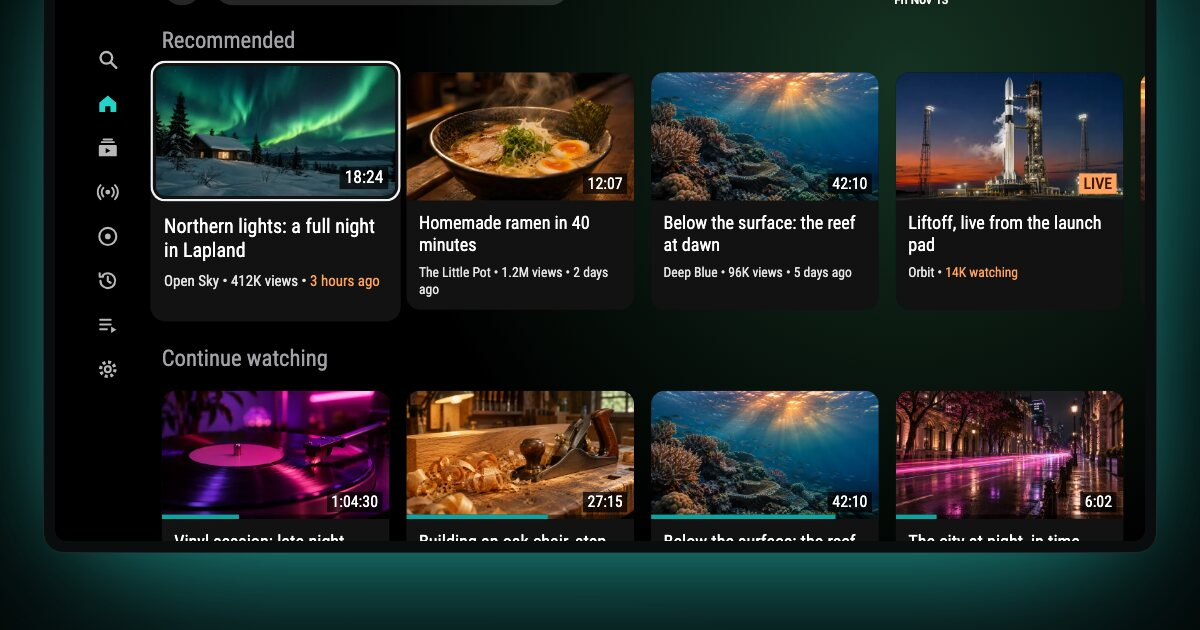
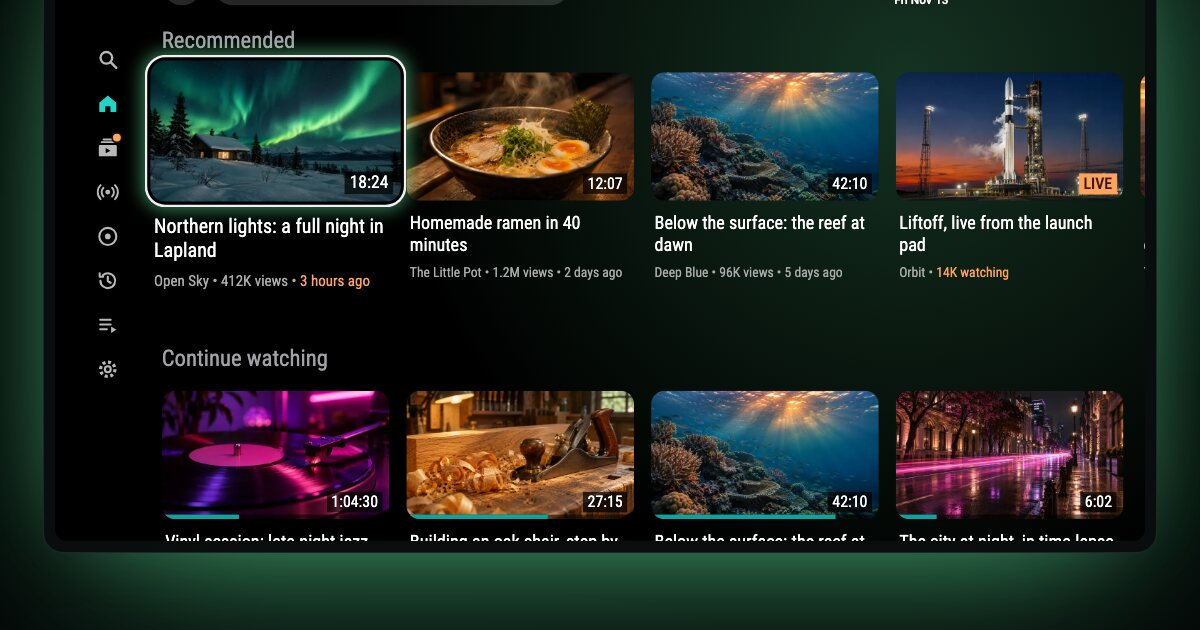
Site: TV matches Oculo 32.74-13 (no info box, ring outside the picture, card glow, new-content dot)

Changed region(s): [[0.0925, 0.0603, 0.925, 0.4825], [0.1233, 0.8143, 0.925, 0.9048]]

diff --git a/site/assets/tv.css b/site/assets/tv.css
@@ -22,6 +22,8 @@
 .tv-item svg { position: absolute; left: 25px; top: 19px; width: 40px; height: 40px; }
 .tv-item em { position: absolute; left: 90px; top: 0; font-style: normal; font-size: 36px; line-height: 78px; white-space: nowrap; opacity: 0; transition: opacity .2s; }
 .tv-item.cur { color: #22d3c8; }
+/* New content in Subscriptions: a small Abricot dot on the icon. */
+.tv-item.dot::after { content: ""; position: absolute; left: 54px; top: 14px; width: 14px; height: 14px; border-radius: 50%; background: #ffa25c; box-shadow: 0 0 0 3px #131313; }
 .tv-home.open .tv-list { transform: translateY(-39px); }
 .tv-home.open .tv-who, .tv-home.open .tv-item em { opacity: 1; transition-delay: .1s; }
 .tv-home.open .tv-item { color: #fff; }
@@ -44,24 +46,25 @@
 .tv-row.above { opacity: 0; }
 .tv-rowtitle { margin: 0; height: 106px; padding-top: 26px; box-sizing: border-box; font-size: 40px; line-height: 48px; color: #a1a1a6; }
 .tv-track { display: flex; gap: 30px; transition: transform .42s cubic-bezier(.2, .7, .2, 1); }
-.tv-card { flex: none; width: 401px; height: 418px; border-radius: 24px; background: #121212; cursor: pointer; transition: transform .22s, opacity .3s; }
+.tv-card { position: relative; flex: none; width: 401px; height: 418px; cursor: pointer; transition: transform .22s, opacity .3s; }
 .tv-card.past { opacity: 0; }
 .tv-card.focus { transform: scale(1.1); z-index: 2; }
-.tv-thumb { position: relative; height: 226px; border-radius: 24px 24px 0 0; background: #1c1c1c center / cover; overflow: hidden; }
-.tv-card.focus .tv-thumb { border-radius: 24px; }
-/* Focus: a 2dp white ring, a 2.5dp dark gap, then the picture. The ring breathes every 2 s. */
-.tv-card.focus .tv-thumb::before { content: ""; position: absolute; inset: 0; border-radius: 24px; box-shadow: inset 0 0 0 9px #121212; z-index: 1; }
-.tv-card.focus .tv-thumb::after { content: ""; position: absolute; inset: 0; border-radius: 24px; box-shadow: inset 0 0 0 4px #f1f1f1; z-index: 2; animation: tv-pulse 2s ease-in-out infinite; }
-@keyframes tv-pulse { 50% { opacity: .45; } }
+.tv-thumb { position: relative; height: 226px; border-radius: 24px; background: #1c1c1c center / cover; overflow: hidden; }
+/* Focus, as in the app since 32.74-13: a 2dp white ring set 2.5dp outside the picture, breathing every
+   2.4 s down to 20 %, and a soft glow in the picture's color reaching 14dp beyond the ring. No info box. */
+.tv-card::before, .tv-card::after { content: ""; position: absolute; left: -9px; top: -9px; width: 419px; height: 244px; border-radius: 33px; opacity: 0; pointer-events: none; }
+.tv-card::before { box-shadow: 0 0 28px 4px color-mix(in srgb, var(--glow) 55%, transparent); transition: opacity .22s; }
+.tv-card::after { box-shadow: inset 0 0 0 4px #f1f1f1; }
+.tv-card.focus::before { opacity: 1; }
+.tv-card.focus::after { opacity: 1; animation: tv-pulse 2.4s ease-in-out infinite; }
+@keyframes tv-pulse { 50% { opacity: .2; } }
 .tv-badge { position: absolute; right: 12px; bottom: 12px; padding: 0 8px; font-size: 28px; line-height: 36px; background: rgba(0, 0, 0, .72); color: #fff; z-index: 3; }
 .tv-badge.live { background: #ffa25c; color: #3a1a06; font-weight: 500; }
-.tv-card.focus .tv-badge { right: 20px; bottom: 20px; }
 .tv-watched { position: absolute; left: 0; right: 0; bottom: 0; height: 8px; background: rgba(0, 0, 0, .55); z-index: 3; }
 .tv-watched i { display: block; height: 100%; background: #0fa3a0; }
-.tv-card.focus .tv-watched { left: 16px; right: 16px; bottom: 11px; border-radius: 4px; overflow: hidden; }
-.tv-text { padding: 20px 22px; }
+.tv-text { padding: 20px 6px; }
 .tv-title { margin: 0; font-size: 32px; line-height: 38px; height: 76px; overflow: hidden; display: -webkit-box; -webkit-line-clamp: 2; -webkit-box-orient: vertical; }
-.tv-meta { margin: 16px 0 0; font-size: 24px; line-height: 30px; color: #e4e4e4; height: 60px; overflow: hidden; }
+.tv-meta { margin: 16px 0 0; font-size: 24px; line-height: 30px; color: #aaa; height: 60px; overflow: hidden; }
 .tv-meta b { font-weight: 400; color: #ffa25c; }
 
 /* Player */
@@ -98,7 +101,7 @@
 .tv-sign .s3 { font-size: 28px; color: #a1a1a6; margin-top: 34px; }
 
 @media (prefers-reduced-motion: reduce) {
-  .tv-card.focus .tv-thumb::after, .tv-skip, .tv-seek .played, .tv-seek .knob { animation: none; }
+  .tv-card.focus::after, .tv-skip, .tv-seek .played, .tv-seek .knob { animation: none; }
   .tv-skip { opacity: 1; } .tv-seek .played { width: 40%; } .tv-seek .knob { left: 40%; }
   .tv-stage, .tv-scene, .tv-rows, .tv-track, .tv-card, .tv-list, .tv-mic, .tv-pill { transition: none !important; }
 }

diff --git a/site/assets/tv.js b/site/assets/tv.js
@@ -143,7 +143,7 @@
       '<div class="tv-scene tv-home">' +
         '<div class="tv-rows"></div>' +
         '<div class="tv-rail"><span class="tv-avatar">' + icon('person') + '</span><span class="tv-who">' + T.who + '</span><div class="tv-list">' +
-          RAIL.map(function (k, i) { return '<span class="tv-item' + (k === 'home' ? ' cur' : '') + '">' + icon(k) + '<em>' + T.rail[i] + '</em></span>'; }).join('') + '</div></div>' +
+          RAIL.map(function (k, i) { return '<span class="tv-item' + (k === 'home' ? ' cur' : k === 'subs' ? ' dot' : '') + '">' + icon(k) + '<em>' + T.rail[i] + '</em></span>'; }).join('') + '</div></div>' +
         '<div class="tv-top"><span class="tv-mic">' + icon('mic') + '</span><span class="tv-pill">' + T.search + '</span>' +
           '<span class="tv-clock"><b></b><i></i></span><span class="tv-wm">' + wordmark() + '</span></div>' +
       '</div>' +
